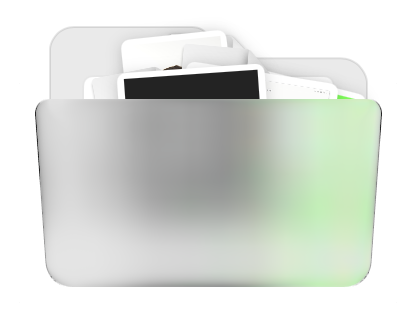
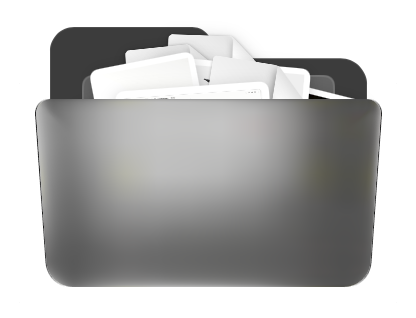
Update README screenshots and add demo GIF

diff --git a/README.md b/README.md
@@ -8,6 +8,10 @@ A little folder that lives on your Mac's desktop. Drop in files, images, screens
   <img src="docs/open.png" width="380" alt="Cubby opened, showing a grid of images and files with tabs">
 </p>
 
+<p align="center">
+  <img src="docs/demo.gif" width="480" alt="Cubby in action on the desktop">
+</p>
+
 ## What it does
 
 - **Keeps things close.** Cubby sits anywhere you like on the desktop as a small glass folder, with your newest items peeking out of the top.
